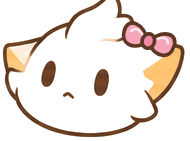
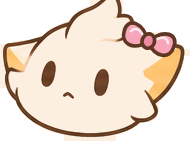
Mascot no longer see-through: fill curious.png's body, fly with the filled star pose
flying.png and curious.png had their body fill cut out with the background (only the outlines were solid),
so the page showed through the mascot. curious.png is filled with the mascot's cream; flying.png's outline
has gaps too wide to fill cleanly, so the tour flies with star.png.

diff --git a/frontend/src/tour-guide.ts b/frontend/src/tour-guide.ts
@@ -36,7 +36,10 @@ const SOFT = '#F7D2DC';
 const INK = '#4A2E36';
 const FONT = 'Fredoka,Mali,system-ui,sans-serif';
 const POSES = ['curious', 'excited', 'flying', 'happy', 'hero', 'star', 'working'] as const;
-const img = (pose: string) => `mascot/bow/${pose}.png`;
+// flying.png has a see-through body (its fill was cut out with the background, through gaps in the outline), so the
+// page shows through the mascot: fly with the filled star pose instead.
+const FILLED: Record<string, string> = { flying: 'star' };
+const img = (pose: string) => `mascot/bow/${FILLED[pose] ?? pose}.png`;
 const MOOD: Record<string, string> = { happy: 'happy', excited: 'excited', curious: 'curious', thinking: 'working' };
 const TRICKS = ['hop', 'wiggle', 'spin', 'hop', 'bounce'] as const;
 
